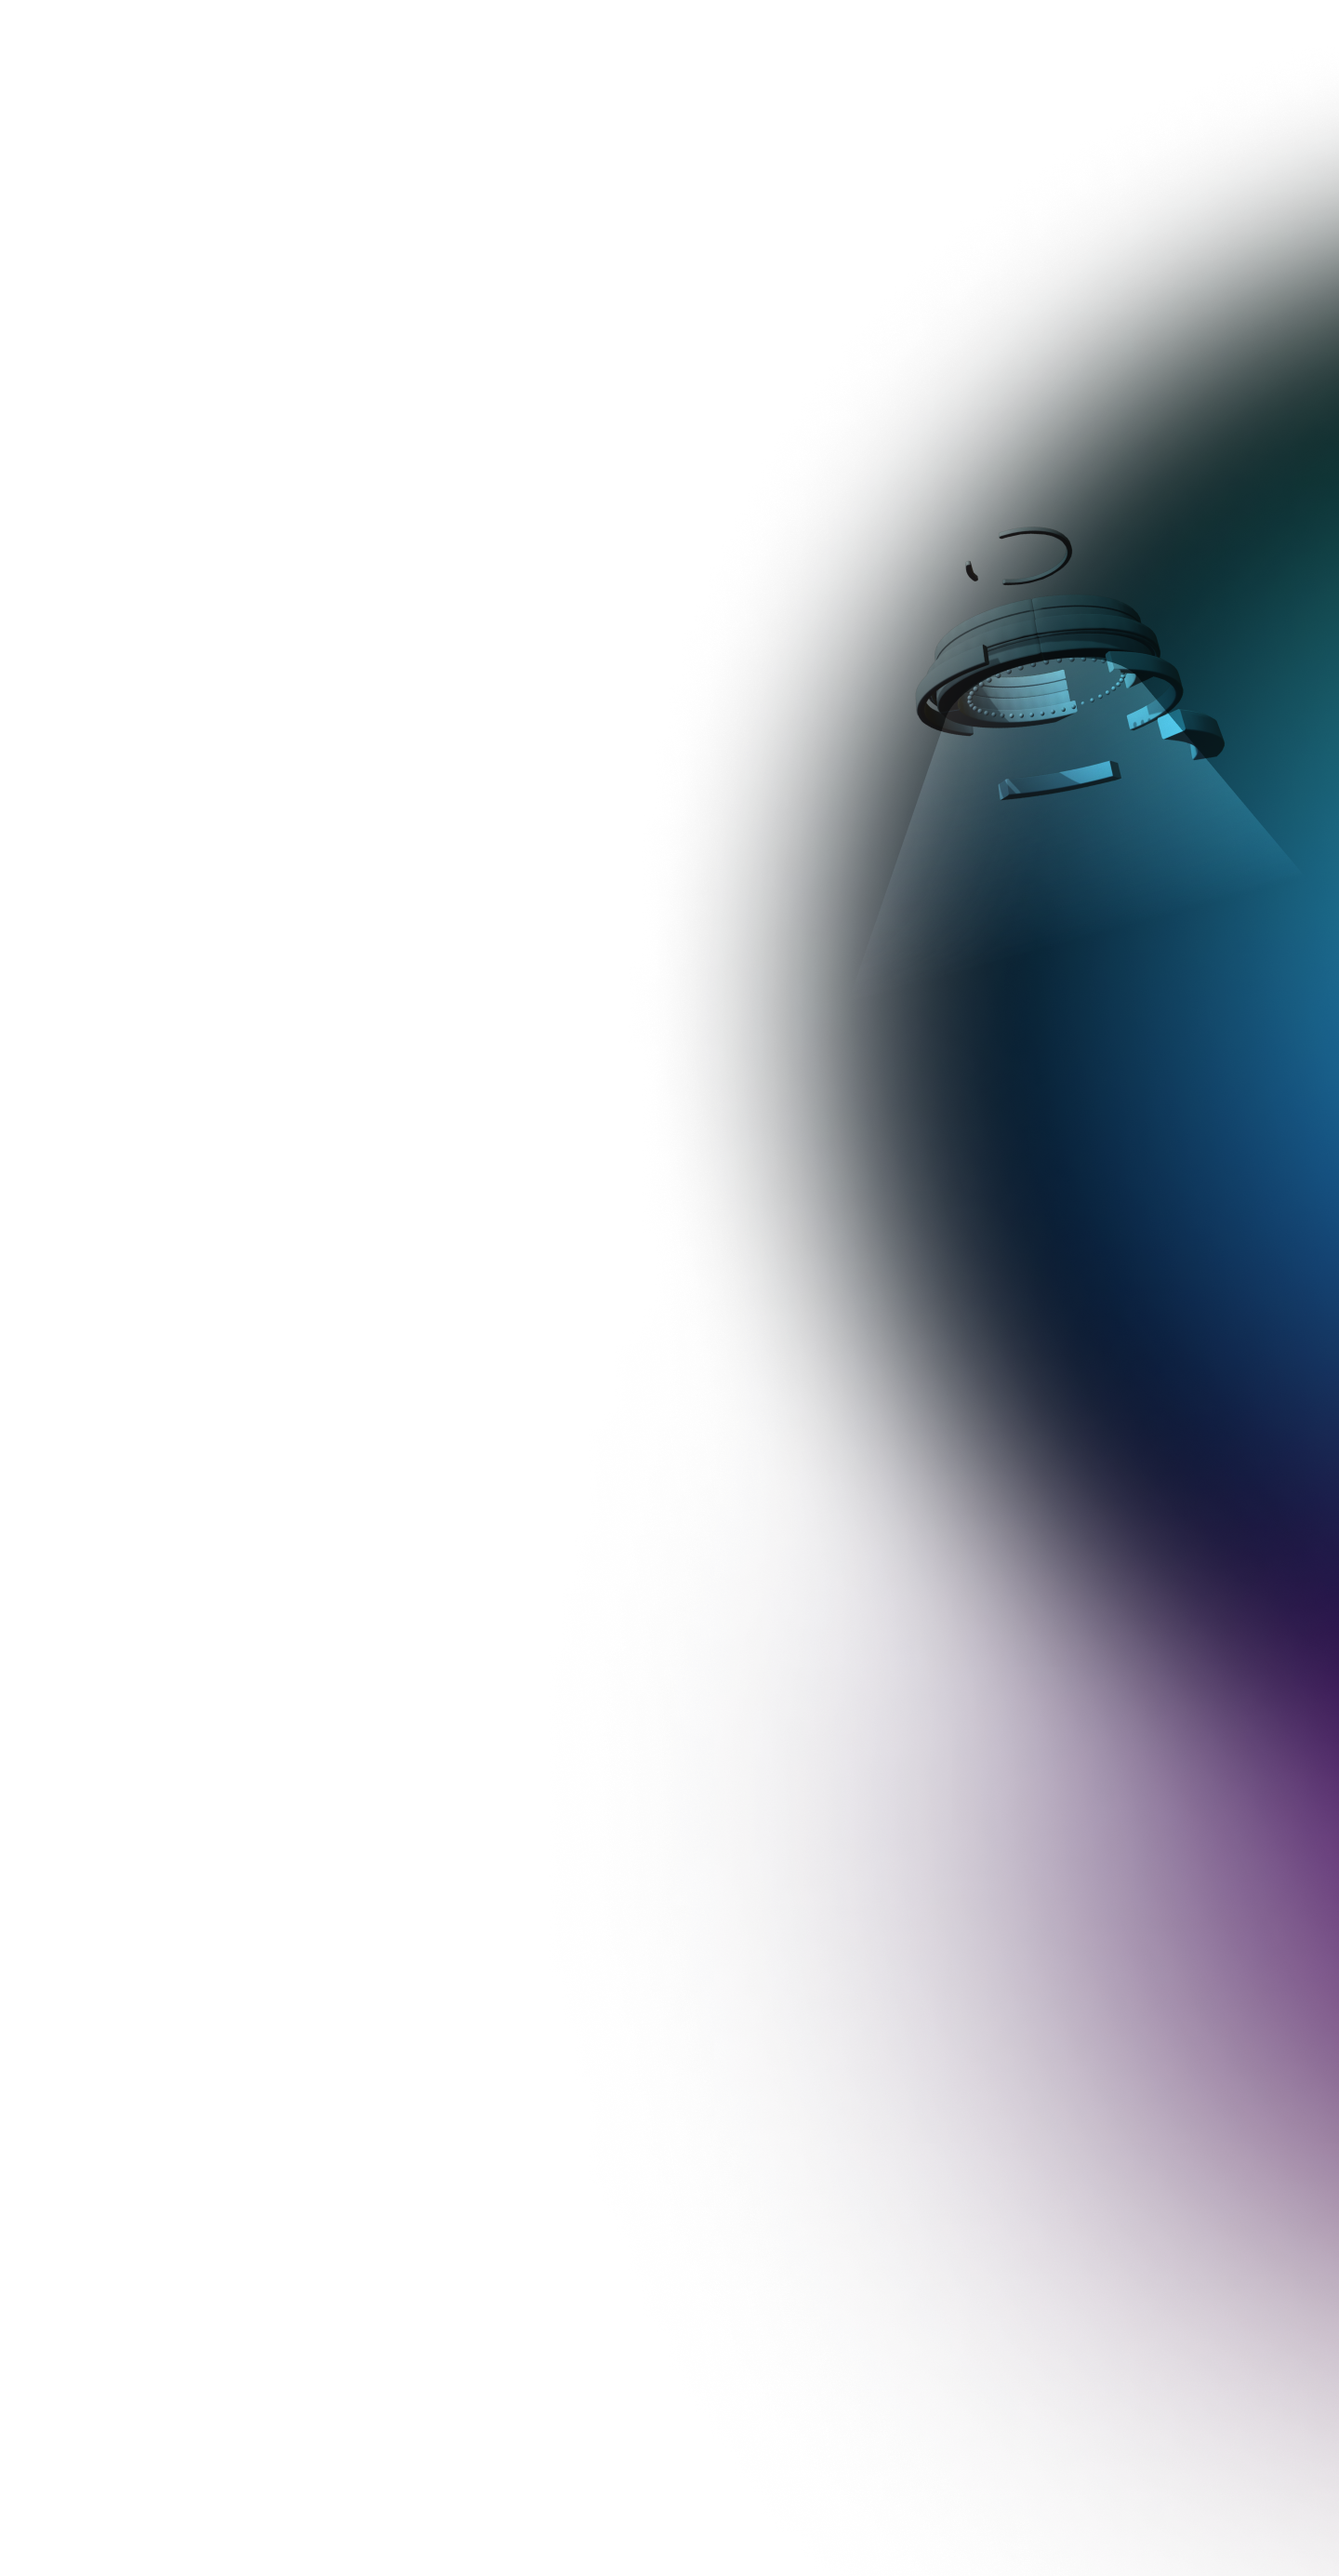
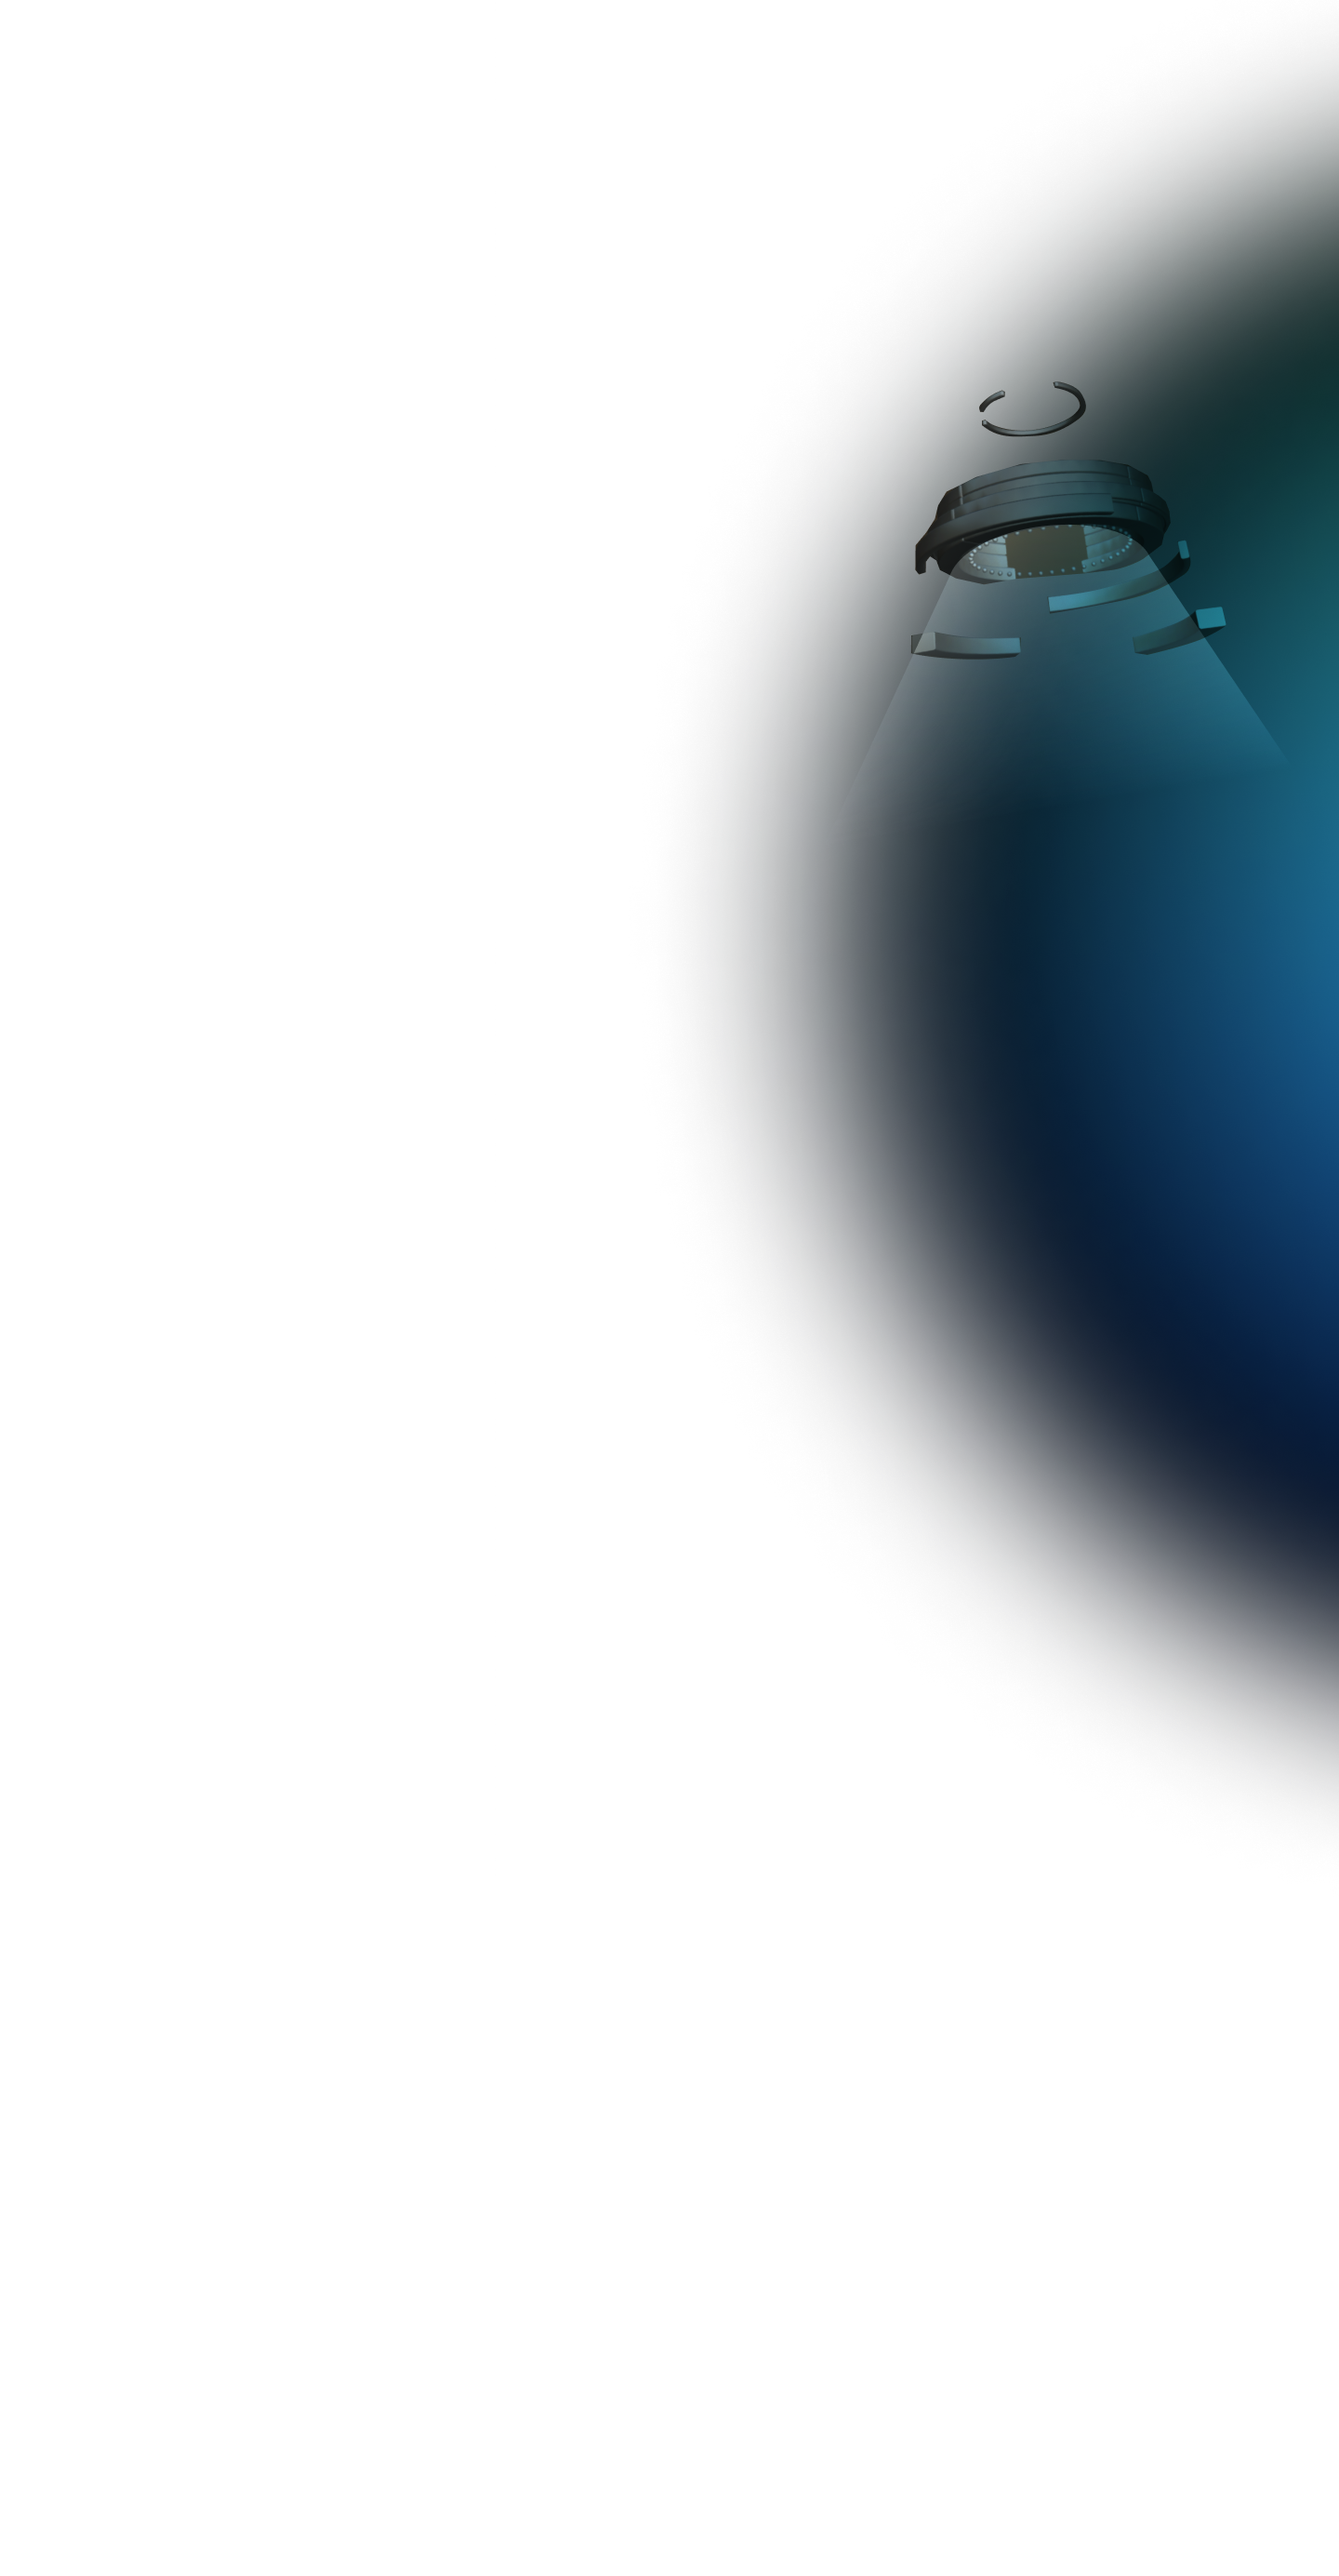
fix: update bg and gradient for desktop view
Fix section 5 icon to not display background

Changed region(s): [[0.5938, 0.4348, 1.0, 0.9939], [0.625, 0.0311, 1.0, 0.3416]]

diff --git a/src/pages/index.tsx b/src/pages/index.tsx
@@ -13,6 +13,7 @@ import { useCallback, useEffect, useRef, useState } from "react";
 import { Parallax } from "react-scroll-parallax";
 
 export default function Home() {
+  // Mock data to display stats at leftmost section in homepage
   // const stats = {
   //   masternodes: {
   //     stat: 11179,
@@ -147,8 +148,8 @@ export default function Home() {
         <Header />
         <JellyfishBackground
           desktop={{
-            position: [0, 300, -600],
-            rotation: [0.3, -0.4, -0.27],
+            position: [40, 150, -400],
+            rotation: [0.3, -0, -0.27],
             containerStyle: "left-0",
           }}
           tablet={{
@@ -174,6 +175,23 @@ export default function Home() {
           label={stats.masternodes.label}
         /> */}
         <div className="w-full h-screen absolute top-[-50vh] z-[-1] mix-blend-screen top-0 left-0 bg-no-repeat bg-contain bg-right lg:bg-[url('/background/gradient-2.png')] md:bg-[url('/background/tablet-gradient-2.png')] bg-[url('/background/mobile-gradient-2.png')]" />
+        <JellyfishBackground
+          desktop={{
+            position: [-50, -40, -650],
+            rotation: [0, 0.5, 0.4],
+            containerStyle: "right-0 top-[650px]",
+          }}
+          tablet={{
+            position: [-150, -60, -650],
+            rotation: [-0.5, -0.4, -0.4],
+            containerStyle: "right-0",
+          }}
+          mobile={{
+            position: [100, 350, -350],
+            rotation: [0.5, -0.4, -0.27],
+            containerStyle: "left-0",
+          }}
+        />
         <Parallax translateY={[30, -30]}>
           <SectionTwo />
         </Parallax>
@@ -193,13 +211,14 @@ export default function Home() {
           label={stats.tokens.label}
           customStyle="top-[1200px]"
         /> */}
-        <div className="w-full h-full absolute top-[-50vh] z-[-1] mix-blend-screen top-0 left-0 bg-no-repeat bg-contain lg:bg-[url('/background/gradient-3.png')] md:bg-[url('/background/tablet-gradient-3.png')] bg-[url('/background/mobile-gradient-3.png')]" />
+        <div className="w-full h-full absolute top-[25vh] z-[-1] mix-blend-screen top-0 left-0 bg-no-repeat bg-contain lg:bg-[url('/background/gradient-3.png')] md:bg-[url('/background/tablet-gradient-3.png')] bg-[url('/background/mobile-gradient-3.png')]" />
         <div className="w-full h-full block md:hidden absolute top-[50vh] z-[-1] mix-blend-screen top-0 right-0 bg-no-repeat bg-contain bg-[url('/background/mobile-gradient-2.png')]" />
+        <div className="w-full h-full absolute lg:top-[-20vh] md:top-[-50vh] top-[-70vh] z-[-1] mix-blend-screen top-0 left-0 bg-no-repeat md:bg-contain bg-cover bg-right lg:bg-[url('/background/gradient-4.png')] md:bg-[url('/background/tablet-gradient-4.png')] bg-[url('/background/mobile-gradient-4.png')]" />
         <JellyfishBackground
           desktop={{
-            position: [0, 280, -300],
-            rotation: [0.4, -0.5, -0.4],
-            containerStyle: "left-0",
+            position: [0, 0, -350],
+            rotation: [0, 0.5, -0.4],
+            containerStyle: "left-0 top-[250px]",
           }}
           tablet={{
             position: [-150, -60, -500],
@@ -254,15 +273,15 @@ export default function Home() {
           label={stats.valueLocked.label}
           customStyle="top-[250px]"
         /> */}
-        <div className="w-full h-full absolute z-[-1] mix-blend-screen top-0 left-0 bg-no-repeat bg-cover lg:bg-[url('/background/gradient-5.png')]" />
+        {/* <div className="w-full h-full absolute z-[-1] mix-blend-screen top-0 left-0 bg-no-repeat bg-cover lg:bg-[url('/background/gradient-5.png')]" /> */}
         <div className="w-full h-full absolute z-[-1] mix-blend-screen top-0 left-0 bg-no-repeat md:bg-cover bg-contain bg-bottom 2xl:bg-[url('/background/footer-xl.png')] lg:bg-[url('/background/footer.png')] md:bg-[url('/background/footer-tablet.png')] bg-[url('/background/mobile-footer.png')]" />
-        <JellyfishBackground
+        {/* <JellyfishBackground
           desktop={{
             position: [-120, -200, -1000],
             rotation: [0.2, -0.4, 0.35],
             containerStyle: "left-0",
           }}
-        />
+        /> */}
         <Parallax translateY={[30, -30]}>
           <SectionFive />
         </Parallax>

diff --git a/src/components/home/SectionFive.tsx b/src/components/home/SectionFive.tsx
@@ -164,7 +164,7 @@ function CommunityIcon({
 }): JSX.Element {
   return (
     <div
-      className={`absolute md:-right-2 right-0 -top-2 z-[1] w-[45px] ${iconHeight} group-hover:scale-[1.22] transition duration-300`}
+      className={`absolute md:-right-1 right-0 -top-1 z-[1] w-[45px] ${iconHeight} group-hover:scale-[1.22] transition duration-300`}
     >
       <Image layout="fill" src={path} alt={altLabel} objectFit="contain" />
     </div>
